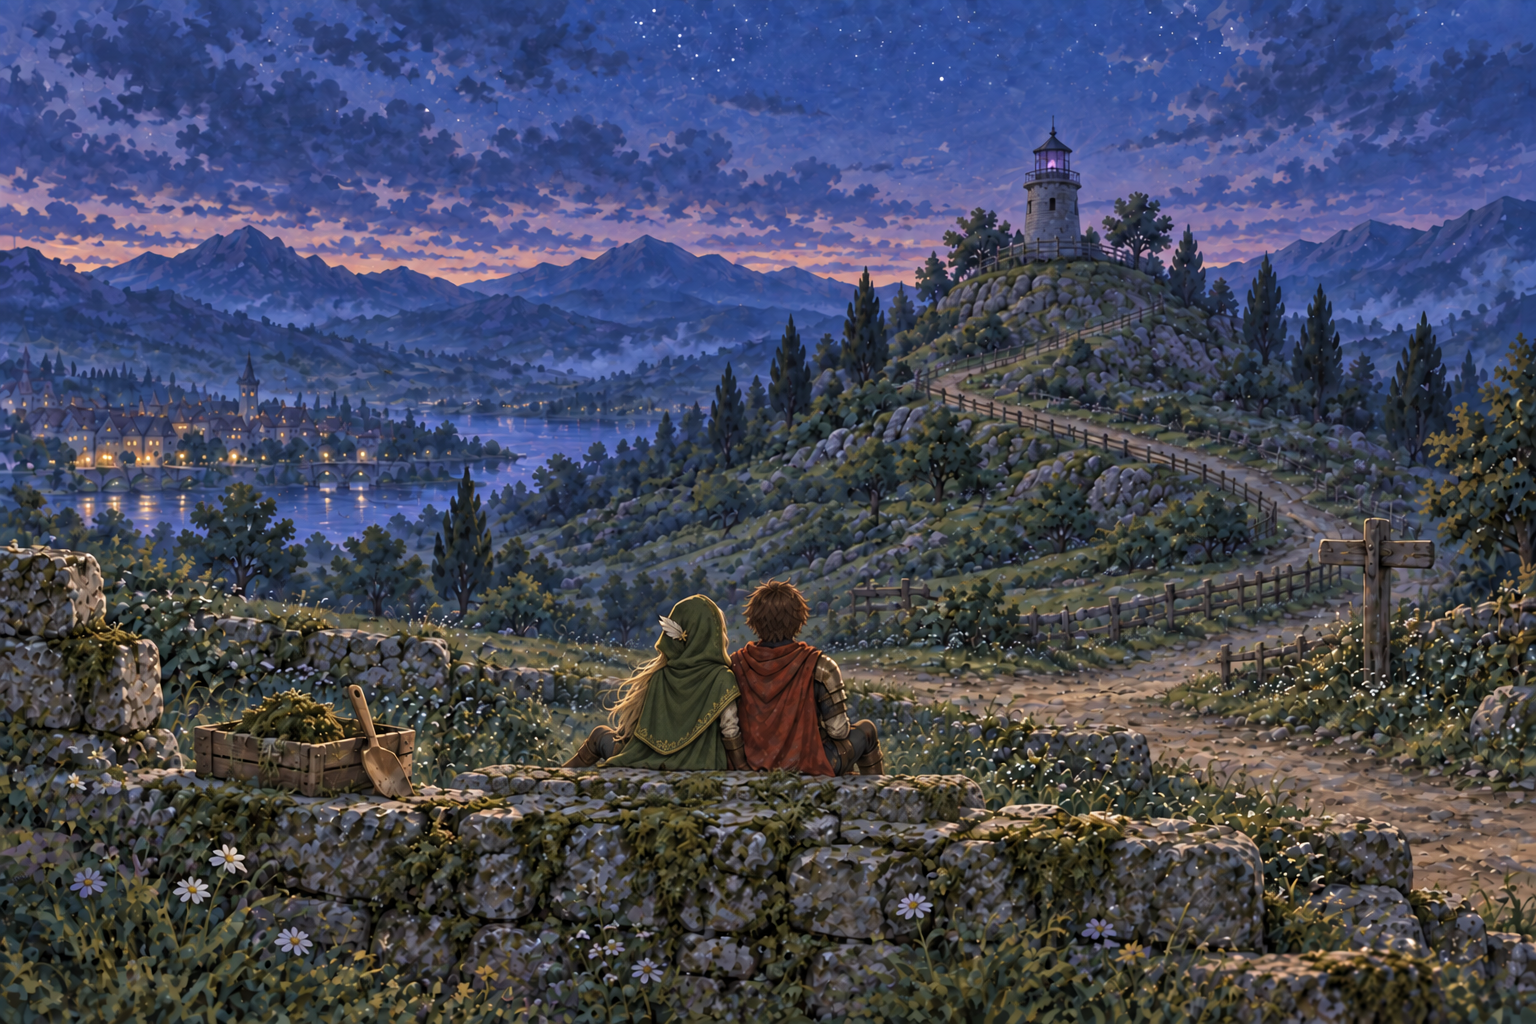
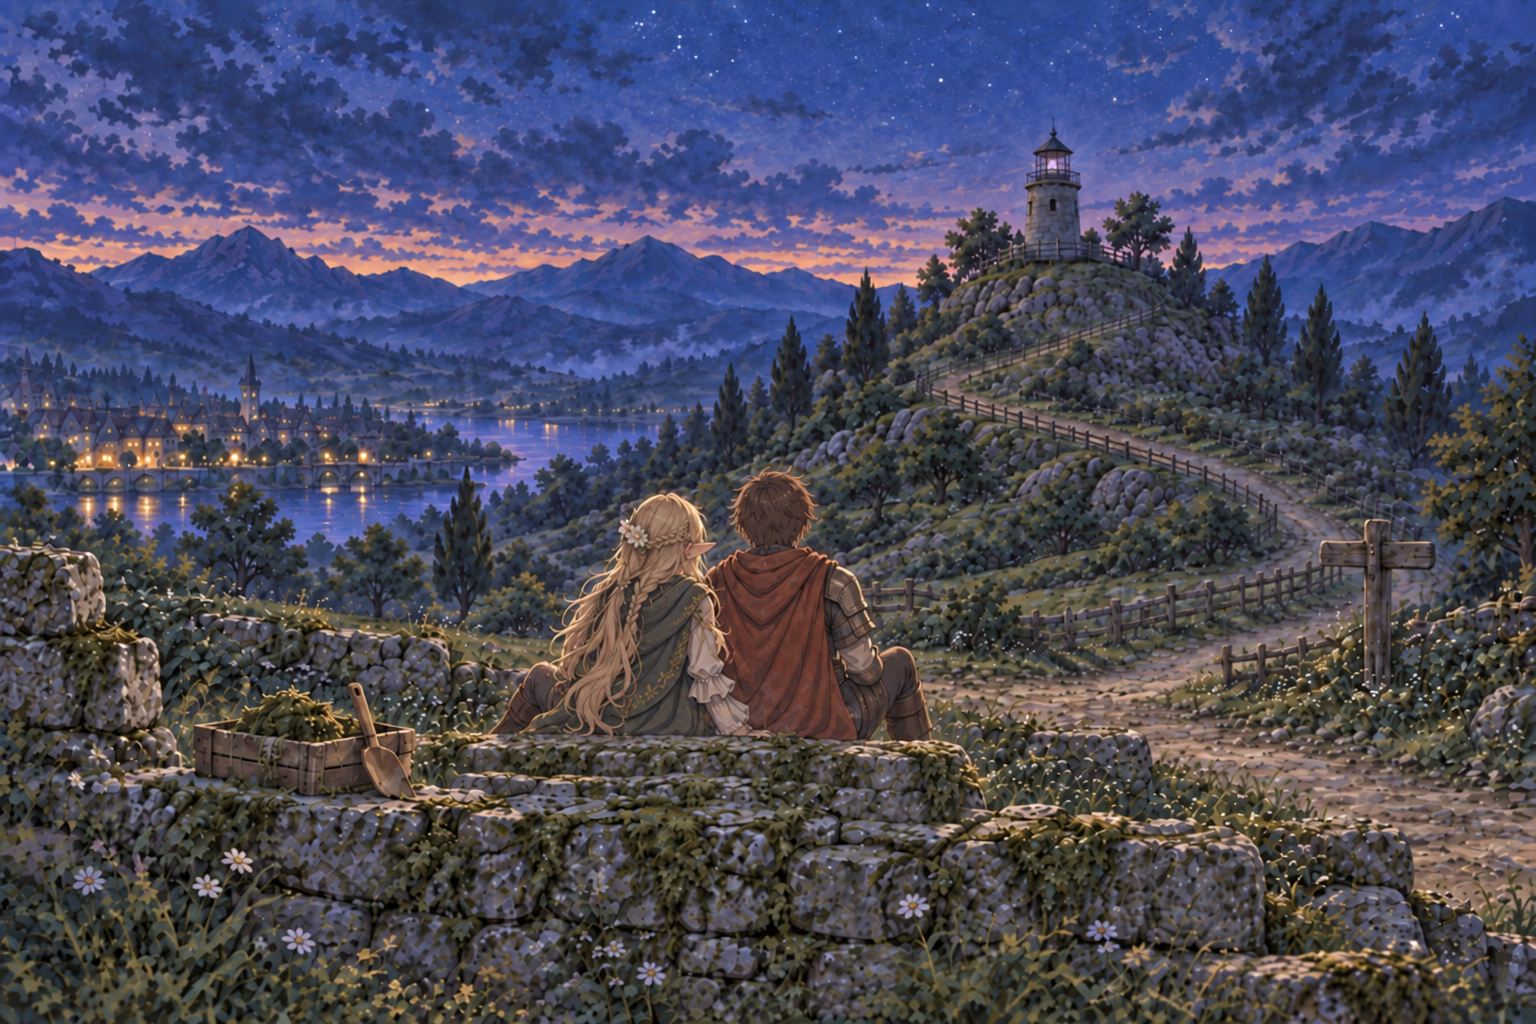
1-9のスチルをフードを外したアリアと淡紫の塔灯りに差し替え (#94)
* 1-9のスチルをフードを外したアリアと淡紫の塔灯りに差し替え

* 変更履歴にPR番号を記録

diff --git a/lib/story-art.ts b/lib/story-art.ts
@@ -40,7 +40,7 @@ export const storyArt: Partial<Record<string, StoryArt>> = {
   },
   "tower-moss-removal-return": {
     src: "/stories/tower-light-restored.png",
-    alt: "夕暮れの丘で、アリアとレオンが低い石に寄り添って座り、正面の塔を見上げる後ろ姿。塔の窓には淡い紫の光がともり、広がる風景を絵筆の跡を残して描いている。",
+    alt: "夕暮れの丘で、フードを下ろしたアリアとレオンが石垣に寄り添って座り、正面の塔を見上げる後ろ姿。アリアの長い金髪と花飾りが見え、塔の窓には淡い紫の光がともる。",
     width: 1536,
     height: 1024,
     revealAtLine: 6,

diff --git a/docs/story-art.md b/docs/story-art.md
@@ -19,13 +19,13 @@
 
 ## 第一部1-9：塔の再点灯
 
-組み込み image_gen で1536×1024のスチルを生成し、`public/stories/tower-light-restored.png` へ保存。`tower-moss-removal-return` の0始まり6行目、塔に淡い紫の光がともる瞬間から表示する。読了後はアルバムでも鑑賞できる。1-8には一枚絵を追加せず、水路の修理までに分けた。
+組み込み image_gen で1536×1024の初版を生成。採用画像は2026-09-17にユーザー提供のフードを下ろした版をもとに、塔の窓の灯りを淡い紫へ編集し、`public/stories/tower-light-restored.png` へ保存した。`tower-moss-removal-return` の0始まり6行目、塔に淡い紫の光がともる瞬間から表示する。読了後はアルバムでも鑑賞できる。1-8には一枚絵を追加せず、水路の修理までに分けた。
 
-二人は寄り添って座り、正面の塔を向く後ろ姿。人物の顔を見せず、風景の広がりと筆跡を残す。塔の窓には復旧し始めたばかりの淡い紫を置き、強い光線や明るすぎる道を避ける。
+二人は寄り添って座り、正面の塔を向く後ろ姿。採用画像ではアリアのフードを下ろし、長い金髪と花飾りを見せる。塔の窓には弱い紫の灯りがともる。
 
-正確なプロンプトと画像の確認結果は [生成記録](stage-1-9-art.json) に保存する。モデル識別子はツールから返されていない。画像の確認とブラウザ・実機確認は区別する。
+初版と差し替え時のプロンプト、採用画像の出典とハッシュは [制作記録](stage-1-9-art.json) に保存する。モデル識別子はツールから返されていない。画像の確認とブラウザ・実機確認は区別する。
 
-後ろ姿の衣装では、アリアのフードを独立した帽子に見せない。後頭部から首元・肩・マントへ緑の布が連続し、髪はフードの開口部から自然に出す。後頭部全体の髪でフードとマントのつながりが途切れて見える箇所を局所修正した。首から肩への布の連続、脇へ流れる髪、座る構図と塔の光の維持を画像で確認済み。
+初版では、アリアのフードとマントの布の連続を局所修正した。これは差し替え前の制作履歴であり、現在の採用画像には適用しない。
 
 ゲーム内には読み込まない制作資料。スチル本体は `public/stories/`、場面・表示ページ・代替テキストは `lib/story-art.ts` に保存する。
 

diff --git a/docs/story-art-gallery.md b/docs/story-art-gallery.md
@@ -16,7 +16,7 @@
 
 ![塔の再点灯](../public/stories/tower-light-restored.png)
 
-第一部1-9。塔に淡い紫の光が戻る行で表示。アリアとレオンが寄り添って座り、正面の塔を見上げる後ろ姿。風景を広く取り、筆跡を残した絵にする。復旧直後の灯りは窓の中にほのかにともる程度。[生成記録](stage-1-9-art.json)。
+第一部1-9。塔に淡い紫の光が戻る行で表示。アリアはフードを下ろし、長い金髪と花飾りを見せてレオンと寄り添って座る。二人は正面の塔を見上げ、窓には弱い紫の灯りがともる。[採用画像と初版の制作記録](stage-1-9-art.json)。
 
 スチルの制作確認用一覧。ゲームではそれぞれの物語の該当ページから表示します。
 場面と表示条件は [制作記録](story-art.md)、組み込み image_gen に渡したプロンプト原文は [生成記録](story-art-generation.json) に保存しています。

diff --git a/CHANGELOG.md b/CHANGELOG.md
@@ -12,6 +12,7 @@
 
 | 版 | 日付 | 変更 |
 | --- | --- | --- |
+| 0.2.15 | 2026-09-17 | 1-9のスチルをフードを外したアリアと淡紫の塔灯りに差し替え（[#94](https://github.com/upu/starlit-guild/pull/94)） |
 | 0.2.14 | 2026-09-16 | 従来記録を読み込まないようにする（#88 の第一段）（[#92](https://github.com/upu/starlit-guild/pull/92)） |
 | 0.2.13 | 2026-09-16 | アルバムを正方形3列と軽量サムネイルに変更（[#90](https://github.com/upu/starlit-guild/pull/90)） |
 | 0.2.12 | 2026-09-16 | 従来モードを維持しない方針を定め、新規に作られる経路を閉じる（[#89](https://github.com/upu/starlit-guild/pull/89)） |
